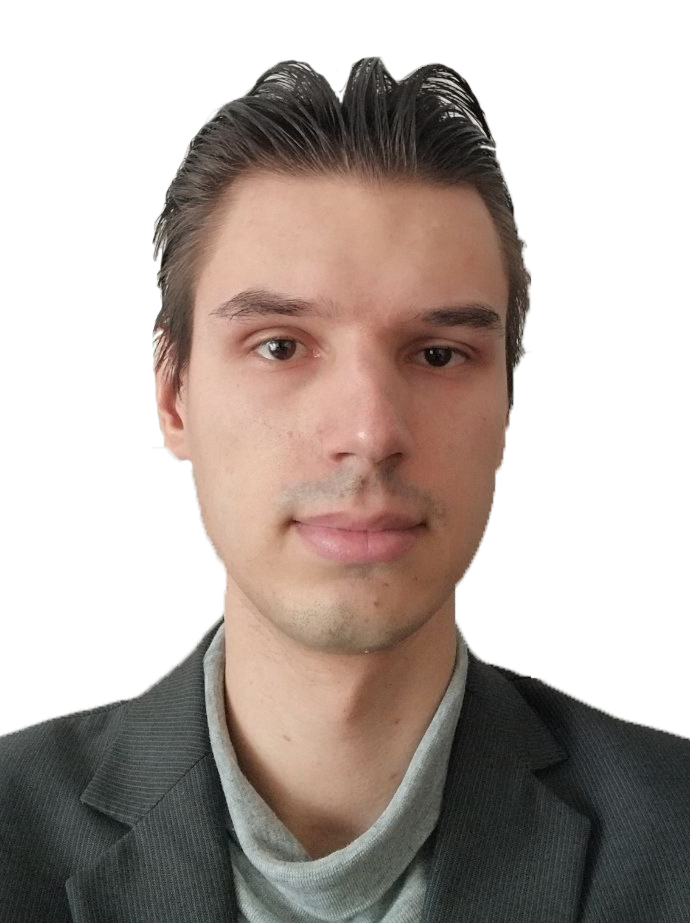
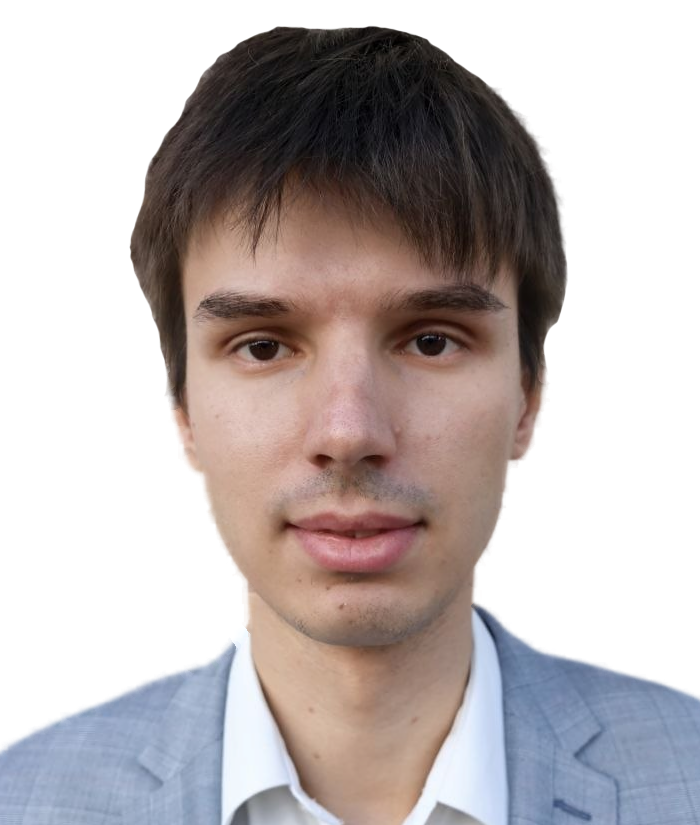
photo and some skills updated

diff --git a/src/data/experienceData.ts b/src/data/experienceData.ts
@@ -9,17 +9,17 @@ export const experienceDataRus: IExperience = {
         "C# / .NET (Core 3.1, 5–10)", "ASP.NET Core",
         "PostgreSQL", "MS SQL Server", "ClickHouse",
         "GraphQL", "REST", "SignalR",
-        "Docker", "GoCD (CI/CD)",
-        "Node.js", "TypeScript", "React", "Next.js (App Router)",
-        "Redux Toolkit", "Jest",
-        "Git", "Gitea",
-        "LLM integration", "RAG"
+        "Docker", "GoCD (CI/CD)", "Sentry",
+        "Node.js", "TypeScript", "React", "Next.js", "RTK", 
+        "Jest", "xUnit", "MSTest",
+        "Git",
+        "LLM", "RAG", "OpenWebUI", "Hermes", "Cursor"
     ],
     projects: [
         {
             title: "ИИ-автоматизация разработки: Orchestrator",
             period: "Май 2026 — по настоящее время",
-            stack: ["LLM", "Node.js", "TypeScript", "JSDoc", "Jest", "Gitea"],
+            stack: ["LLM", "Node.js", "TypeScript", "JSDoc", "Jest", "Gitea", "Hermes", "Cursor", "OpenWebUI"],
             achievements: [
                 "Разработал ИИ-конвейер (pipeline), который анализирует AST проекта, автоматически генерирует JSDoc и тесты (Jest), строит UML-диаграммы и выполняет рефакторинг.",
                 "Оптимизировал алгоритмы передачи контекста в LLM-агент, что позволило эффективно работать в условиях ограниченного контекстного окна и сократило ошибки ИИ с более чем 30% до 1–2% после валидации.",
@@ -29,7 +29,7 @@ export const experienceDataRus: IExperience = {
         {
             title: "ИИ-агент с раздельными базами знаний",
             period: "Февраль 2026 — Май 2026",
-            stack: ["ASP.NET Core", "PostgreSQL", "OAuth 2.0", "RAG", "LLM", "GraphQL", "Docker", "Next.js (App Router)", "React", "Redux Toolkit", "Tailwind"],
+            stack: ["ASP.NET Core", "PostgreSQL", "Keycloak", "RAG", "LLM", "GraphQL", "Docker", "Next.js (App Router)", "React", "Redux Toolkit", "Tailwind", "Sentry"],
             achievements: [
                 "Спроектировал и разработал архитектуру клиентской части (Frontend) интеллектуального агента.",
                 "Разработал отказоустойчивый сервис синхронизации баз знаний (RAG) с внешними источниками информации через GraphQL-запросы.",
@@ -40,7 +40,7 @@ export const experienceDataRus: IExperience = {
         {
             title: "Система сертификации сотрудников",
             period: "Октябрь 2024 — Февраль 2026",
-            stack: ["ASP.NET Core", "PostgreSQL", "ClickHouse", "SignalR", "Docker", "GoCD (CI/CD)", "React", "Vite", "Redux", "REST API", "SCSS-модули"],
+            stack: ["ASP.NET Core", "PostgreSQL", "ClickHouse", "SignalR", "xUnit", "Docker", "GoCD (CI/CD)", "React", "Vite", "Redux", "REST API", "SCSS-модули", "Sentry"],
             achievements: [
                 "Вносил вклад в сквозное проектирование и разработку корпоративной системы (БД, Backend и Frontend).",
                 "Разработал архитектуру передачи данных в реальном времени: первичное получение данных через HTTP REST API и динамическое обновление интерфейсов через SignalR.",
@@ -52,7 +52,7 @@ export const experienceDataRus: IExperience = {
         {
             title: "Система архивного хранения и электронного документооборота",
             period: "Сентябрь 2022 — Октябрь 2024",
-            stack: ["ASP.NET Core", "MS SQL", "MVC", "Razor Pages", "jQuery", "TUS"],
+            stack: ["ASP.NET Core", "MS SQL", "MVC", "Razor Страницы", "jQuery", "TUS", "MSTest"],
             achievements: [
                 "Провел масштабный рефакторинг Legacy-кода и обновил целевую платформу с .NET Core 3.1 до .NET 8.",
                 "Внедрил протокол TUS для возобновляемой загрузки крупных файлов (от 2 Гб), чтобы предотвратить обрывы сессий и timeout’ы при медленном/нестабильном соединении.",
@@ -82,7 +82,7 @@ export const experienceDataEng: IExperience = {
         {
             title: "AI Development Automation Orchestrator",
             period: "May 2026 — Present",
-            stack: ["LLM", "Node.js", "TypeScript", "JSDoc", "Jest", "Gitea"],
+            stack: ["LLM", "Node.js", "TypeScript", "JSDoc", "Jest", "Gitea", "Hermes", "Cursor", "OpenWebUI"],
             achievements: [
                 "Engineered an AI pipeline that analyzes project AST, automatically generates JSDoc and Jest tests, generates UML diagrams, and performs code refactoring.",
                 "Optimized context delivery algorithms for the AI agent, enabling efficient performance within limited LLM context windows and reducing AI errors from over 30% to 1–2% after validation.",
@@ -92,7 +92,7 @@ export const experienceDataEng: IExperience = {
         {
             title: "AI Agent with Isolated Knowledge Bases",
             period: "February 2026 — May 2026",
-            stack: ["ASP.NET Core", "PostgreSQL", "OAuth 2.0", "RAG", "LLM", "GraphQL", "Docker", "Next.js (App Router)", "React", "Redux Toolkit", "Tailwind"],
+            stack: ["ASP.NET Core", "PostgreSQL", "Keycloak", "RAG", "LLM", "GraphQL", "Docker", "Next.js (App Router)", "React", "Redux Toolkit", "Tailwind", "Sentry"],
             achievements: [
                 "Designed and developed the frontend architecture for the AI agent application.",
                 "Developed a fault-tolerant service for synchronizing knowledge bases (RAG) with external data sources using GraphQL queries.",
@@ -103,7 +103,7 @@ export const experienceDataEng: IExperience = {
         {
             title: "Employee Certification System",
             period: "October 2024 — February 2026",
-            stack: ["ASP.NET Core", "PostgreSQL", "ClickHouse", "SignalR", "Docker", "GoCD (CI/CD)", "React", "Vite", "Redux", "REST API", "SCSS Modules"],
+            stack: ["ASP.NET Core", "PostgreSQL", "ClickHouse", "SignalR", "xUnit", "Docker", "GoCD (CI/CD)", "React", "Vite", "Redux", "REST API", "SCSS Modules", "Sentry"],
             achievements: [
                 "Contributed to the end-to-end architecture design and development of the enterprise system (DB, Backend and Frontend).",
                 "Designed and developed a real-time data delivery architecture combining initial data retrieval via HTTP REST API with dynamic UI updates via SignalR.",
@@ -115,7 +115,7 @@ export const experienceDataEng: IExperience = {
         {
             title: "Archival Storage and Electronic Document Management System",
             period: "September 2022 — October 2024",
-            stack: ["ASP.NET Core", "MS SQL", "MVC", "Razor Pages", "jQuery", "TUS"],
+            stack: ["ASP.NET Core", "MS SQL", "MVC", "Razor Pages", "jQuery", "TUS", "MSTest"],
             achievements: [
                 "Performed extensive refactoring of legacy code and upgraded the target framework from .NET Core 3.1 to .NET 8.",
                 "Implemented the TUS protocol for resumable large-file uploads (2GB+) to prevent session drops and timeouts over slow or unstable connections.",

diff --git a/src/data/skillsData.ts b/src/data/skillsData.ts
@@ -5,7 +5,7 @@ export const skillsDataRus: ISkill[] = [
         title: "Бекенд",
         items: [
             { name: "ASP.NET Core" },
-            { name: "C# (.NET 5–10)" }
+            { name: "C# (.NET 3.1–10)" }
         ],
         level: 90
     },
@@ -52,7 +52,7 @@ export const skillsDataRus: ISkill[] = [
             { name: "Docker" },
             { name: "GoCD" },
             { name: "Keycloak" },
-            { name: "OAuth 2.0" }
+            { name: "Git" }
         ],
         level: 60
     },
@@ -60,7 +60,8 @@ export const skillsDataRus: ISkill[] = [
         title: "Тестирование",
         items: [
             { name: "Jest" },
-            { name: "xUnit" }
+            { name: "xUnit" },
+            { name: "MSTest" }
         ],
         level: 50
     },
@@ -73,95 +74,16 @@ export const skillsDataRus: ISkill[] = [
         level: 70
     },
     {
-        title: "Гит",
+        title: "Знаком с",
         items: [
-            { name: "Git" },
-            { name: "Gitea" },
-            { name: "Github" }
+            { name: "Kafka" },
+            { name: "Redis" },
+            { name: "ELK" }
         ],
-        level: 50
+        level: 40
     }
 ];
 
 export const skillsDataEng: ISkill[] = [
-    {
-        title: "Backend",
-        items: [
-            { name: "ASP.NET Core" },
-            { name: "C# (.NET 5–10)" }
-        ],
-        level: 100
-    },
-    {
-        title: "Databases",
-        items: [
-            { name: "PostgreSQL" },
-            { name: "MS SQL" },
-            { name: "ClickHouse" }
-        ],
-        level: 75
-    },
-    {
-        title: "API",
-        items: [
-            { name: "GraphQL" },
-            { name: "SignalR" },
-            { name: "REST" }
-        ],
-        level: 75
-    },
-    {
-        title: "Frontend",
-        items: [
-            { name: "TypeScript" },
-            { name: "JavaScript" },
-            { name: "React" }
-        ],
-        level: 100
-    },
-    {
-        title: "Frontend Tools",
-        items: [
-            { name: "Next.js" },
-            { name: "Redux Toolkit" },
-            { name: "Tailwind" },
-            { name: "SCSS" }
-        ],
-        level: 75
-    },
-    {
-        title: "Tools / Platforms",
-        items: [
-            { name: "Docker" },
-            { name: "GoCD" },
-            { name: "Keycloak" },
-            { name: "OAuth 2.0" }
-        ],
-        level: 60
-    },
-    {
-        title: "Testing",
-        items: [
-            { name: "Jest" },
-            { name: "xUnit" }
-        ],
-        level: 50
-    },
-    {
-        title: "AI / LLM",
-        items: [
-            { name: "LLM integration" },
-            { name: "RAG" }
-        ],
-        level: 70
-    },
-    {
-        title: "Git",
-        items: [
-            { name: "Git" },
-            { name: "Gitea" },
-            { name: "Github" }
-        ],
-        level: 50
-    }
+    ...skillsDataRus
 ];

diff --git a/src/app/[lang]/page.tsx b/src/app/[lang]/page.tsx
@@ -23,9 +23,9 @@ export default async function Page({ params }: { params: Promise<IPageProps> }) 
     const dataToUse = data[lang];
 
     return <LabelsContextProvider labels={dataToUse.labels}>
-        <main className="relative flex flex-col md:flex-row gap-5 bg-zinc-50 dark:bg-black font-sans w-full p-5 md:p-0">
+        <main className="relative flex flex-col md:flex-row gap-5 bg-zinc-50 dark:bg-black font-sans w-full p-0 md:p-0">
             <LanguageSelector languages={languages.map(l => l.lang)} currentLang={lang} />
-            <div className="contents md:flex md:flex-col md:w-[35%] bg-secondary dark:bg-zinc-900 md:py-5 md:pl-5 md:pr-3 h-screen">
+            <div className="contents md:flex md:flex-col md:w-[35%] bg-secondary dark:bg-zinc-900 md:py-2 md:pl-5 md:pr-3 h-screen">
                 <ContactsSection
                     contactData={dataToUse.contactData}
                     className="order-1 md:order-none [&>div]:space-y-0 [&>h2]:mt-0 [&>h2]:font-bold [&>h2]:text-3xl"
@@ -43,7 +43,7 @@ export default async function Page({ params }: { params: Promise<IPageProps> }) 
                     className="order-7 md:order-none"
                 />
             </div>
-            <div className="contents md:flex md:flex-col md:py-5 md:pr-5">
+            <div className="contents md:flex md:flex-col md:pt-2 md:pb-0 md:pr-5">
                 <ExperienceSection
                     experienceData={dataToUse.experienceData}
                     className="order-2 md:order-none"
